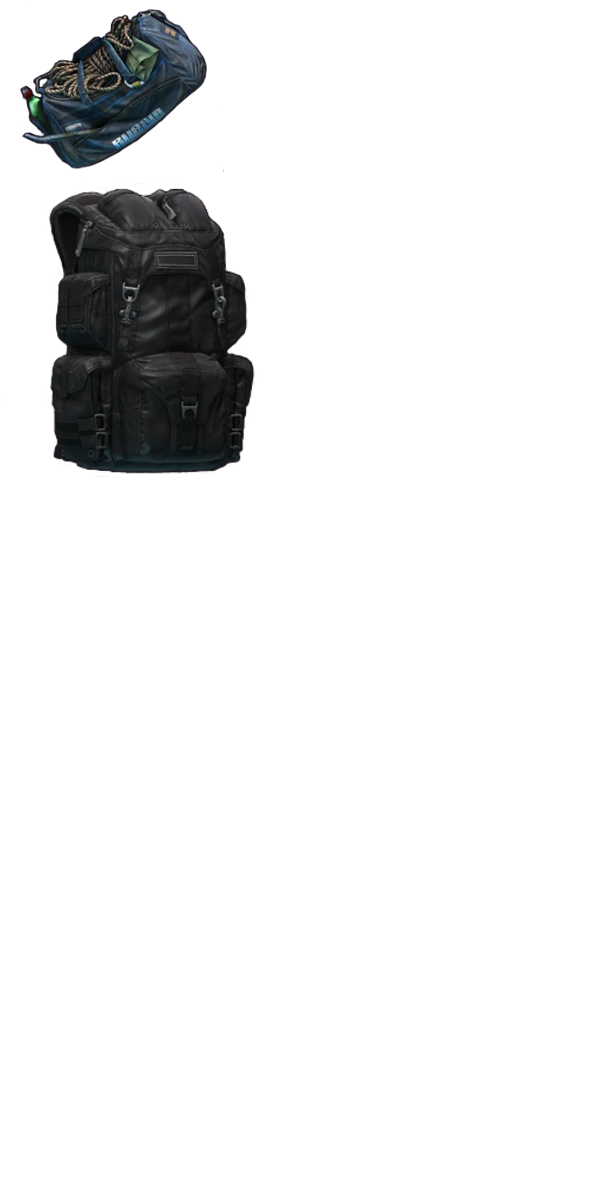
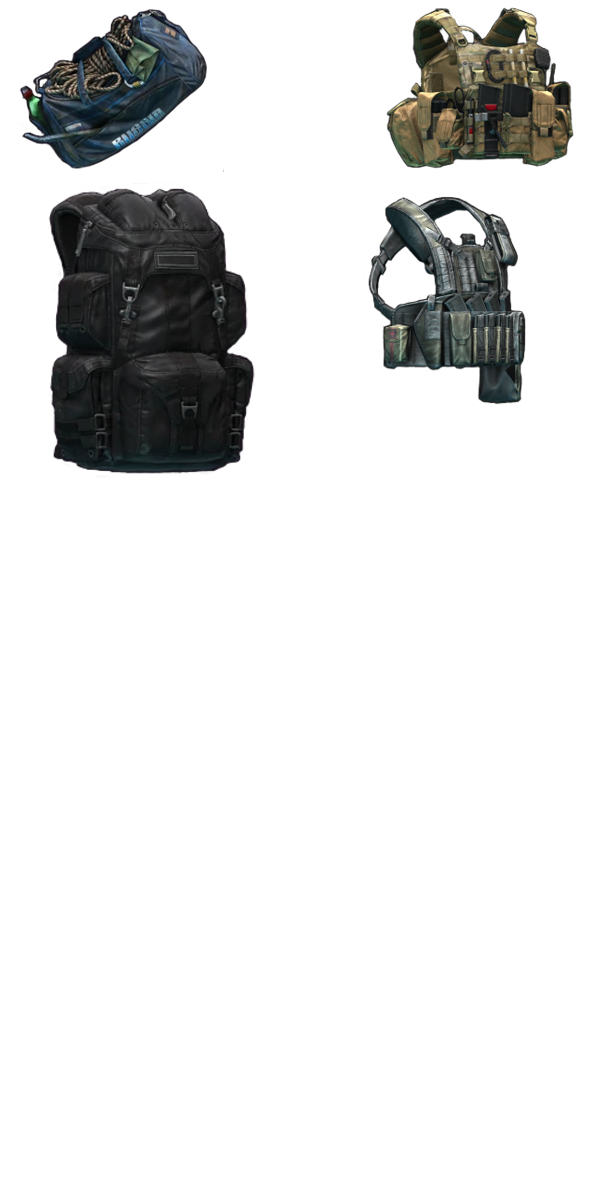
add chest rig storages & minor fixes

Changed region(s): [[0.6, 0.0, 0.96, 0.3392]]

diff --git a/src/zustand/tarkov/actions.ts b/src/zustand/tarkov/actions.ts
@@ -10,7 +10,7 @@ import {
   isItemRotatable,
 } from '@pages/tarkov/data/helpers'
 import { DEFAULT_GRID_SIZE } from '@pages/tarkov/data/constants'
-import { Item, XYCoord } from '@pages/tarkov/data/definitions'
+import { EquipSlotType, Item, XYCoord } from '@pages/tarkov/data/definitions'
 
 //
 // ─── DRAGGING ───────────────────────────────────────────────────────────────────
@@ -93,6 +93,7 @@ export const completedDraggingAction = async () => {
       case 'listing -> equipSlot': {
         if (!item || !to) break
         if (!isValidEquipSlotItem(item, to)) break
+        if (isOccupiedEquipSlot(to)) break
 
         equipItemAction(to, item)
         break
@@ -375,4 +376,10 @@ export const isValidEquipSlotItem = (item: Item, equipSlotId: string) => {
   const [, equipSlotType] = equipSlotId.split('-') || []
 
   return item.tags.includes(equipSlotType)
+}
+
+export const isOccupiedEquipSlot = (equipSlotId: string) => {
+  const [, equipSlotType] = equipSlotId.split('-') || []
+
+  return getState().equipSlots[equipSlotType as EquipSlotType]
 }

diff --git a/src/pages/tarkov/components/Equip/EquipSlotGrids.tsx b/src/pages/tarkov/components/Equip/EquipSlotGrids.tsx
@@ -12,11 +12,11 @@ export interface EquipSlotGridsProps {
 }
 
 export const EquipSlotGrids = (props: EquipSlotGridsProps) => {
-  const { totalHeight } = calculateTotalGridSizes(props.item?.grids || [[]])
+  const wrapper = calculateTotalGridSizes(props.item?.grids || [[]])
 
   const springStyle = useSpring({
     from: { opacity: 0, marginLeft: 30, marginRight: 0, height: 0 },
-    to: { opacity: 1, marginLeft: 0, marginRight: 30, height: totalHeight },
+    to: { opacity: 1, marginLeft: 0, marginRight: 30, height: wrapper.totalHeight },
     reverse: !props.item,
   })
 
@@ -33,6 +33,8 @@ export const EquipSlotGrids = (props: EquipSlotGridsProps) => {
             style={{
               gridRow: `${yPos} / ${yPos + rows}`,
               gridColumn: `${xPos} / ${xPos + cols}`,
+              justifyContent:
+                cols === wrapper.w ? `center` : xPos < wrapper.w / 2 ? `flex-end` : `flex-start`,
             }}
           >
             <Grid cols={cols} rows={rows} id={id} />

diff --git a/src/pages/tarkov/components/Panels/PlayerStorages.tsx b/src/pages/tarkov/components/Panels/PlayerStorages.tsx
@@ -47,11 +47,11 @@ export const PlayerStorages = (props: PlayerStoragesProps) => {
             #pockets {
               display: flex;
               flex-flow: row nowrap;
+              margin-top: 1px;
               margin-bottom: 1.5rem;
-              background: #2b2b2b;
 
               & > :global(.grid-container) {
-                margin-right: 2px;
+                margin-right: 3px;
 
                 &:last-child {
                   margin-right: 0px;

diff --git a/src/pages/tarkov/components/ItemPreview.tsx b/src/pages/tarkov/components/ItemPreview.tsx
@@ -117,7 +117,7 @@ const getSpriteBackgroundOffset = (item: Item) => {
   const { w, h } = dimensions
 
   // Due to how background-position works, the denominator value needs to be subtracted
-  const backgroundPosX = (100 * spriteOffset[0]) / (SPRITESHEET_COLS - h)
+  const backgroundPosX = (100 * spriteOffset[0]) / (SPRITESHEET_COLS - w)
   const backgroundPosY = (100 * spriteOffset[1]) / (SPRITESHEET_ROWS - h)
 
   return {
